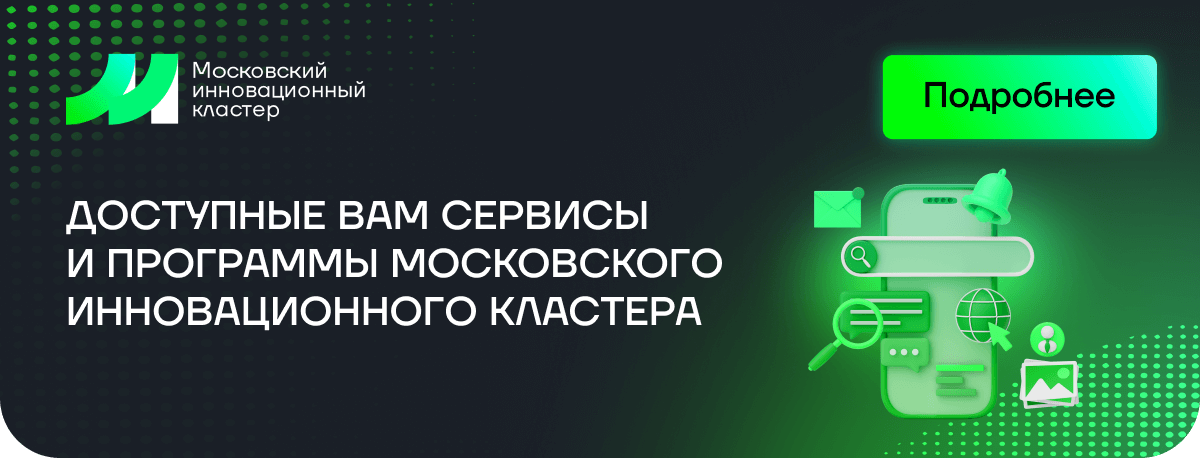
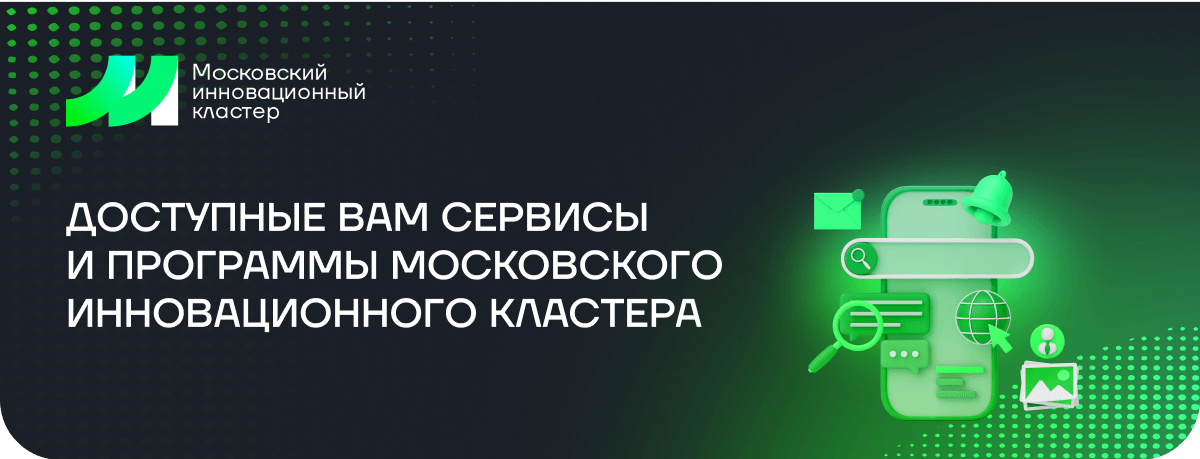
change mik-81

diff --git a/mik-81/Доступные сервисы и программы.html b/mik-81/Доступные сервисы и программы.html
@@ -102,7 +102,7 @@
                                         <tbody>
                                         <tr>
                                             <td style="width:600px;">
-                                                    <img alt="Доступные вам сервисы и&nbsp;программы Московского инновационного кластера. Нажмите здесь, чтобы узнать подробнее." height="auto" src="https://cp.unisender.com/ru/user_file?resource=images&user_id=5608985&name=mik-81-hero.png" style="border:0;display:block;outline:none;text-decoration:none;height:auto;width:100%;font-size:13px;" width="600" />
+                                                    <img alt="Доступные вам сервисы и&nbsp;программы Московского инновационного кластера." height="auto" src="https://cp.unisender.com/ru/user_file?resource=images&user_id=5608985&name=mik-81-hero.png" style="border:0;display:block;outline:none;text-decoration:none;height:auto;width:100%;font-size:13px;" width="600" />
                                             </td>
                                         </tr>
                                         </tbody>
